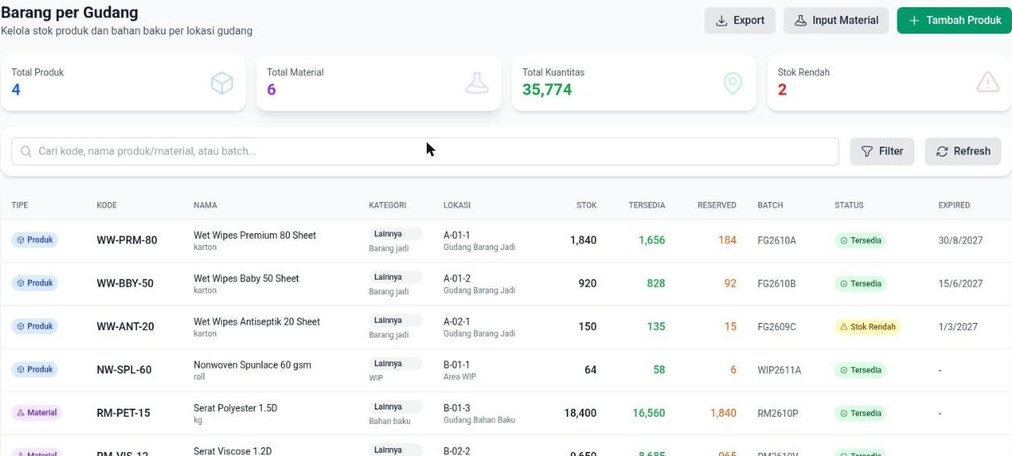
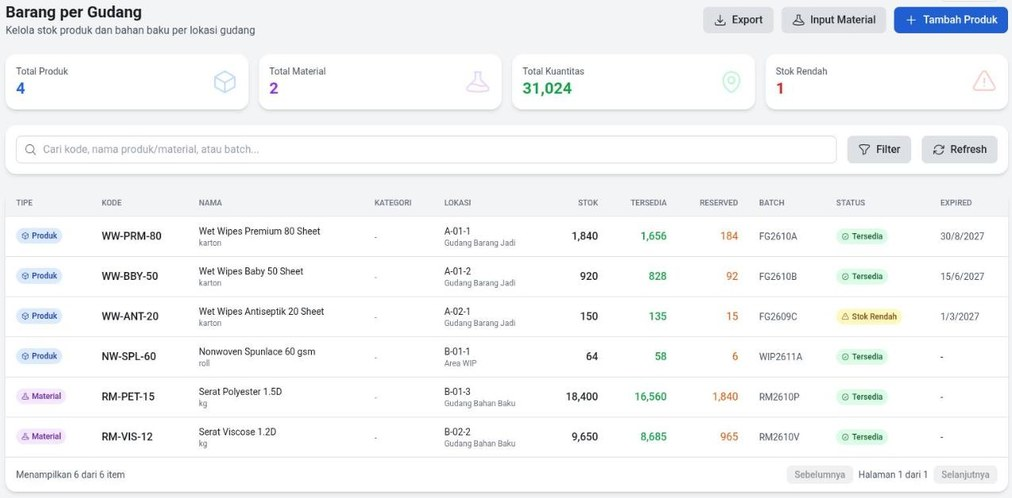
fix(landing): screenshot showcase diambil ulang dengan UI terbaru (data palsu)

diff --git a/frontend/src/pages/Landing/Landing.tsx b/frontend/src/pages/Landing/Landing.tsx
@@ -20,7 +20,7 @@ const SHOWCASE = [
     text: 'Setiap SPK menunjukkan produk, mesin, jumlah shift, dan capaian terhadap target. Operator mengisi hasil langsung dari lantai produksi, dan angkanya terbaca di daftar ini tanpa menunggu rekap.',
     note: 'Daftar SPK dengan progres per perintah kerja.',
     img: '/landing/produksi.jpg',
-    w: 1012, h: 523,
+    w: 1012, h: 540,
   },
   {
     id: 'gudang',
@@ -28,7 +28,7 @@ const SHOWCASE = [
     text: 'Bahan baku, barang jadi, dan barang setengah jadi tercatat per lokasi rak dan nomor batch. Stok yang sudah dipesan, yang masih tersedia, dan yang menipis terlihat sekaligus.',
     note: 'Stok per gudang dengan batch dan tanggal kedaluwarsa.',
     img: '/landing/gudang.jpg',
-    w: 1012, h: 456,
+    w: 1012, h: 498,
   },
   {
     id: 'kas',
@@ -36,7 +36,7 @@ const SHOWCASE = [
     text: 'Penerimaan, pengeluaran, dan saldo setiap hari ada di satu tabel. Klik satu tanggal untuk melihat tiap transaksinya beserta akun lawannya. Semua laporan bisa diunduh ke Excel atau PDF dan dicetak.',
     note: 'Rekap kas harian, per rekening.',
     img: '/landing/kas-harian.jpg',
-    w: 1012, h: 568,
+    w: 1012, h: 516,
   },
   {
     id: 'piutang',
@@ -44,7 +44,7 @@ const SHOWCASE = [
     text: 'Faktur, retur, penerimaan, dan saldo berjalan tiap pelanggan dalam satu kartu. Aktivitas terakhir langsung terlihat, jadi tagihan yang mulai tertinggal mudah ditemukan.',
     note: 'Kartu piutang per pelanggan.',
     img: '/landing/kartu-piutang.jpg',
-    w: 1012, h: 568,
+    w: 1012, h: 465,
   },
 ]
 
